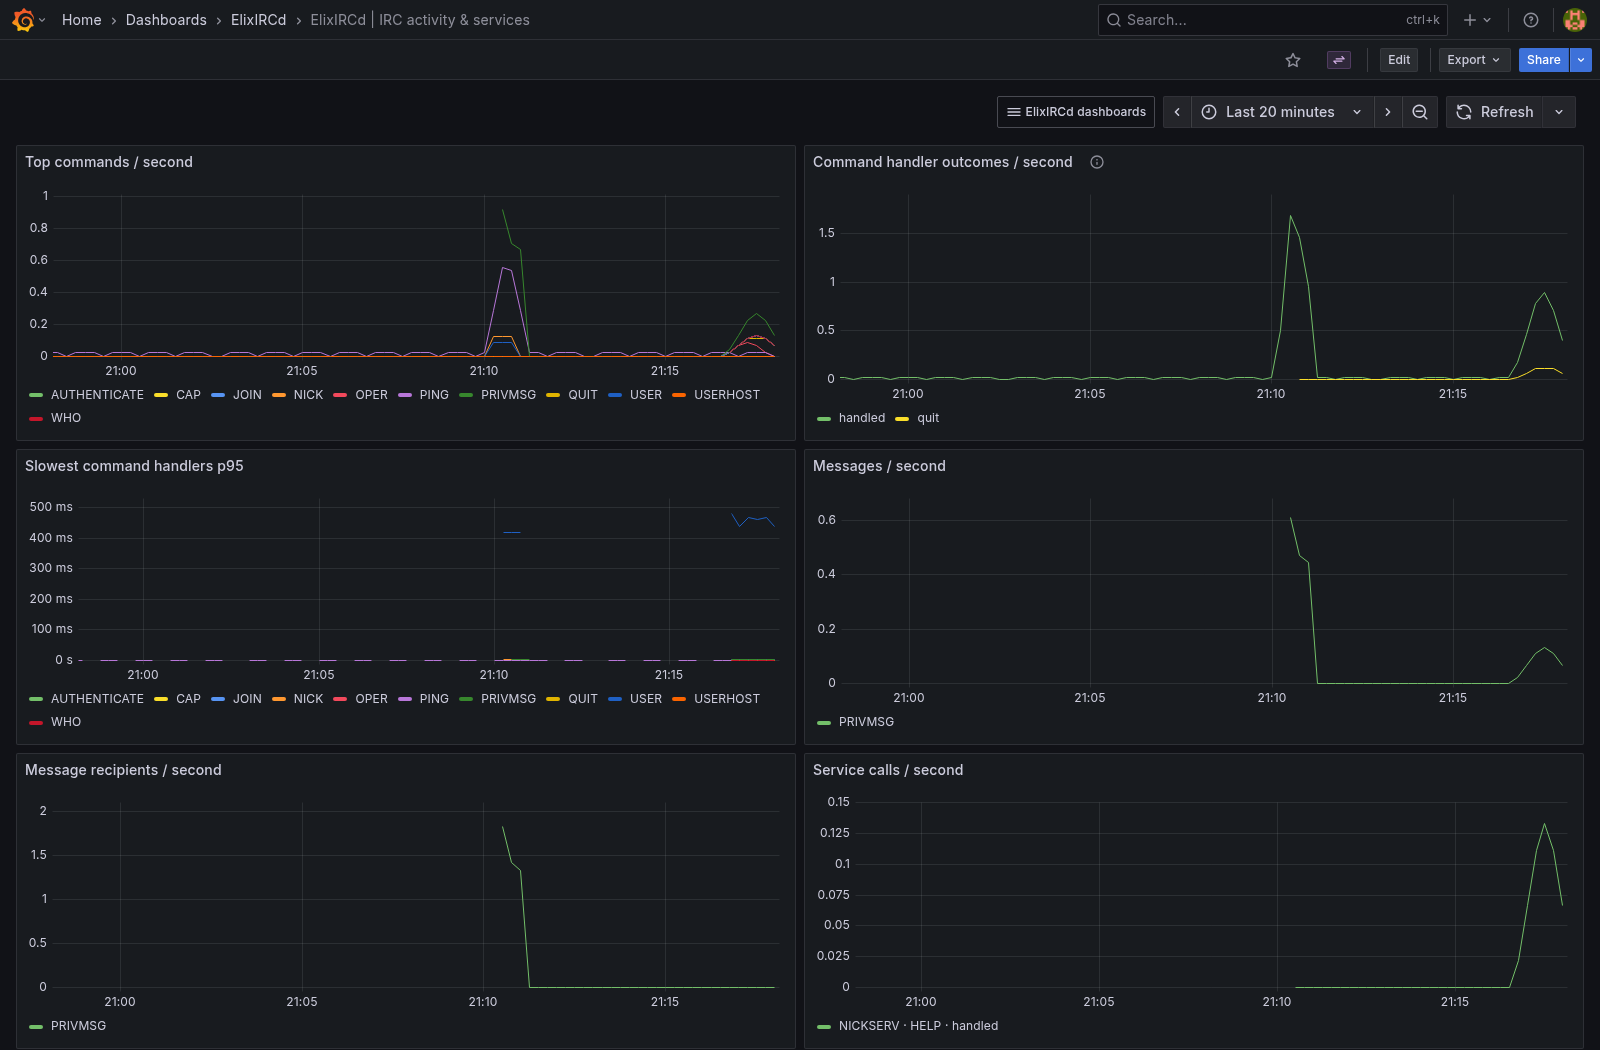
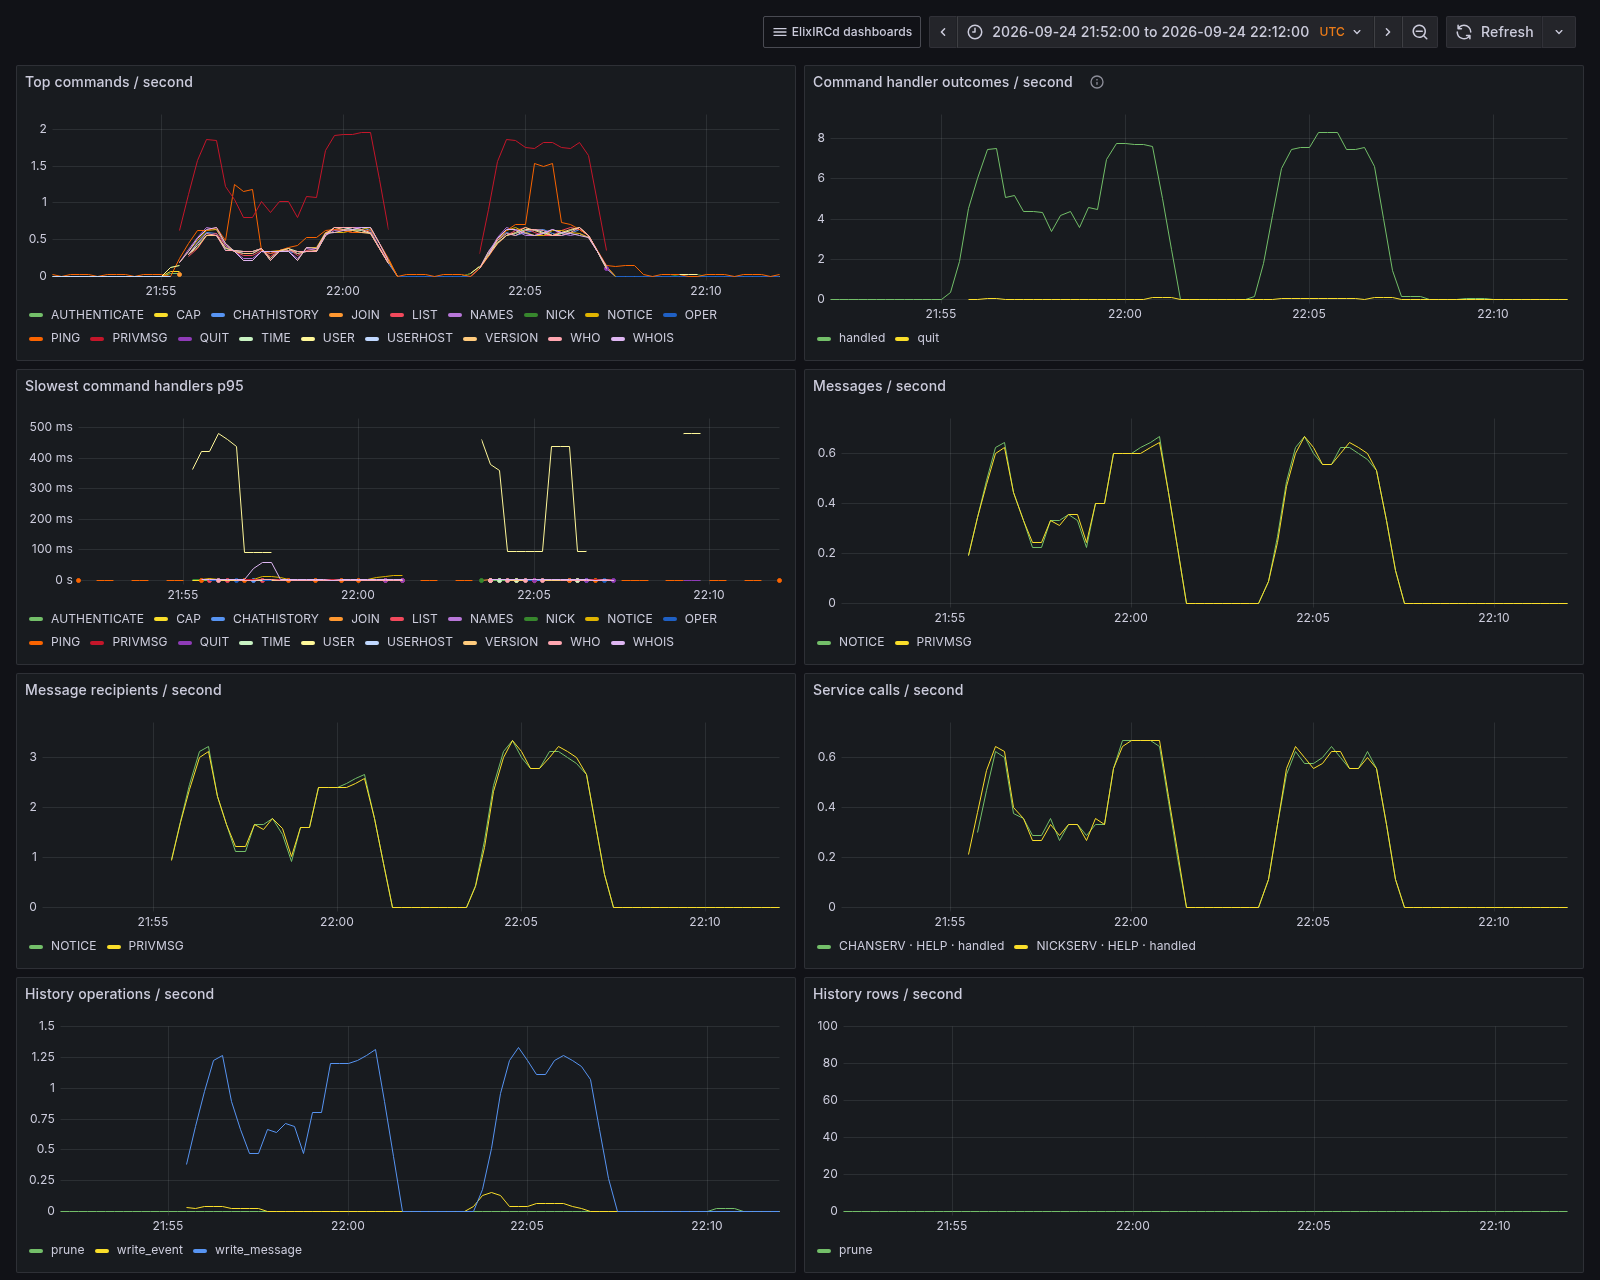
Expand self-hosted monitoring without tracing

diff --git a/observability/README.md b/observability/README.md
@@ -13,17 +13,17 @@ export GRAFANA_ADMIN_PASSWORD='choose-a-long-unique-password'
 docker compose -f observability/compose.yaml up -d
 ```
 
-Open <http://127.0.0.1:3000> and sign in as `admin` with the password above. The `ElixIRCd` folder contains nine English dashboards: Overview, Connections & transport, IRC activity & services, Security & authentication, Runtime, Storage & database, Jobs, Email, and Event logs. The dashboard navigation menu preserves the selected time range. Prometheus scrapes the private `elixircd:9568/metrics` address. Loki receives JSON container logs via Alloy. `docker compose -f observability/compose.yaml ps` shows container state; `docker compose -f observability/compose.yaml logs elixircd alloy` helps diagnose startup.
+Open <http://127.0.0.1:3000> and sign in as `admin` with the password above. The `ElixIRCd` folder contains ten English dashboards: Overview, Connections & transport, IRC activity & services, Security & authentication, Runtime, Storage & database, Jobs, Email, Event logs, and Monitoring & alerts. The dashboard navigation menu preserves the selected time range. Prometheus scrapes the private `elixircd:9568/metrics` address and the internal health metrics of Loki, Alloy, and Grafana. Loki receives JSON container logs via Alloy. `docker compose -f observability/compose.yaml ps` shows container state; `docker compose -f observability/compose.yaml logs elixircd alloy` helps diagnose startup.
 
 The Event logs dashboard has an **Event family** dropdown and an **Event suffix regex** input. Use the default `.*` suffix to see all names in a family, or enter `failed|crashed` to narrow the selected family. The top event types, severity trend, per-type trend, and selected log stream follow these filters; the family trend and "Other runtime logs" remain unfiltered for context. Families use the stable prefix of `metadata.event`: `audit.*`, `authentication.*`, `connection.*`/`protocol.*`, `job.*`/`email.*`, `account.*`/`channel.*`/`service.*`, and `observability.*`. Click a log line for its JSON fields, including bounded `job_type`, `result`, and `connection_id` when available. For ad hoc investigation, use Grafana Explore with the Loki query `{service="elixircd"} | json`; for example, append `| metadata_event=~"^job[.].+"` to select job events. Job lifecycle logs include enqueue, start, completion, retry, failure, cancellation, and recovery. Event names are parsed at query time rather than indexed as Loki labels.
 
 ## Dashboard screenshots
 
-These captures come from the local Docker stack during synthetic IRC traffic with multiple clients over TCP, TLS, WebSocket, and secure WebSocket, plus local email jobs sent through the test adapter. They show measured traffic, storage activity, jobs, audit events, and controlled rejects; they are examples rather than production measurements. Dashboard log panels display the message text, while the structured JSON fields remain available in each log entry's details. Live values and panels with no matching events will vary.
+These captures come from local synthetic QA runs, not production. The Overview, Activity, and Storage examples use a busy 2026-09-24 interval with IRC commands, messages, services, history, and database activity; the other captures use separate QA intervals. Dashboard log panels show message text, with structured JSON fields available in each entry's details. Live values and panels with no matching events will vary.
 
 ### Overview
 
-Health, traffic, memory, and recent logs in one view.
+Health, active alerts, traffic, memory, and recent logs in one view.
 
 ![Overview dashboard with health cards, traffic charts, memory, and recent logs](screenshots/overview.png)
 
@@ -35,9 +35,11 @@ Connection acceptance and rejection, disconnects, handshakes, and transport-spec
 
 ### IRC activity and services
 
-Command rates and latency, message delivery, and NickServ/ChanServ calls.
+Command rates and latency, a complete command/outcome table since restart, message delivery, and NickServ/ChanServ calls.
 
 ![IRC activity dashboard with command, message, recipient, and service charts](screenshots/activity.png)
+
+![Complete command counts by outcome since restart](screenshots/activity-breakdown.png)
 
 ### Security and authentication
 
@@ -53,9 +55,11 @@ Metrics availability, IRC readiness, sample freshness, and BEAM resource trends.
 
 ### Storage and database
 
-Data volume capacity and usage, Mnesia table sizes, and transaction throughput and latency.
+Data volume capacity and usage, largest and complete Mnesia table views, and transaction throughput and latency.
 
 ![Storage dashboard with data volume and Mnesia charts](screenshots/storage.png)
+
+![Complete Mnesia table row counts](screenshots/storage-breakdown.png)
 
 ### Jobs
 
@@ -77,6 +81,12 @@ Event type counts and severity over time, with filters for structured event fami
 
 ![Related email job lifecycle entries in the Email dashboard](screenshots/job-log-lines.png)
 
+### Monitoring and alerts
+
+Prometheus rule state, scrape target health, Loki log intake, and selected Grafana and Loki API errors. The dashboard displays alerts but does not send notifications.
+
+![Monitoring and alerts dashboard with five healthy scrape targets and log intake](screenshots/monitoring.png)
+
 This Compose file owns the usual IRC ports (6667, 6697, 8080, 8443) and Grafana's loopback port 3000. Adjust host port mappings if occupied. Add your IRC configuration or TLS certificates by mounting them into `/app/config/elixircd.exs` and `/app/data/cert` as described in the root README. Preserve the `elixircd-data` volume. A fresh volume starts with a fresh Mnesia schema; existing deployments must use their own compatible data volume and backup before changing versions.
 
 ## Endpoints and data
@@ -93,8 +103,8 @@ Production logs use JSON. Normal connection logs use a random, per-connection ID
 
 ## Retention, access, and alerts
 
-Prometheus retains metrics for 15 days. Loki retains logs for 7 days. Docker rotates the IRC server's container log at five 10 MB files. Named volumes persist on `docker compose down`; `docker compose down -v` deletes monitoring and IRC data. Back up the volumes if the history matters. The stack does not configure an Alertmanager notification destination: alert rules show in Prometheus/Grafana, and you can add a receiver for paging. Included alerts cover down/unready, stale samples, low disk space, old queued jobs, and failed jobs.
+Prometheus retains metrics for 15 days. Loki retains logs for 7 days. Docker rotates the IRC server's container log at five 10 MB files. Named volumes persist on `docker compose down`; `docker compose down -v` deletes monitoring and IRC data. Back up the volumes if the history matters. The stack does not configure an Alertmanager notification destination: alert rules show in Prometheus/Grafana, and you can add a receiver for paging. Included alerts cover down/unready, stale samples, low disk space, old queued jobs, failed jobs, and monitoring component outages. Prometheus cannot evaluate rules while it is down, so monitor its availability separately if paging is required.
 
-Grafana is bound to the host loopback and requires `GRAFANA_ADMIN_PASSWORD`. For remote access, put an authenticated HTTPS reverse proxy in front of it or use a private tunnel. The Alloy container mounts the Docker socket read-only to discover the ElixIRCd container, but Docker socket access is privileged even with a read-only mount. Run this stack only on a host you trust or replace Docker discovery with another log collector. Prometheus and Loki are internal to the Compose network and have no host ports.
+Grafana is bound to the host loopback and requires `GRAFANA_ADMIN_PASSWORD`. For remote access, put an authenticated HTTPS reverse proxy in front of it or use a private tunnel. The Alloy container mounts the Docker socket read-only to discover the ElixIRCd container, but Docker socket access is privileged even with a read-only mount. Run this stack only on a host you trust or replace Docker discovery with another log collector. Prometheus, Loki, and Alloy's metrics endpoint are internal to the Compose network and have no host ports.
 
 To inspect metrics without the full stack, run the image with a private Docker network and scrape port 9568 from another container on that network. The production image exposes the same endpoints when observability is enabled. Neither the image nor this Compose example ties Docker container health to the optional management HTTP endpoint; the Runtime dashboard and Prometheus alerts report metrics availability and IRC readiness separately.

diff --git a/README.md b/README.md
@@ -197,9 +197,9 @@ Observability is enabled by default and exposes liveness, readiness, and Prometh
 
 The image and optional Compose stack do not tie Docker container health to the metrics endpoint. The [monitoring stack](observability/README.md) runs Prometheus, Grafana, Loki, and Alloy alongside the IRC server. It includes dashboards, alerts, structured logs, and persistent monitoring data. The monitoring endpoint is bound to the container's private interface when this stack is used; it is never published as a host port.
 
-The screenshot below shows the local Grafana overview during a synthetic multi-client IRC workload. See the [observability dashboard gallery](observability/README.md#dashboard-screenshots) for the detailed views.
+The screenshot below shows the local Grafana overview with active alerts and synthetic IRC traffic. See the [observability dashboard gallery](observability/README.md#dashboard-screenshots) for the detailed views.
 
-![Grafana overview showing server readiness, connection and command rates, memory, and recent logs](observability/screenshots/overview.png)
+![Grafana overview showing server readiness, active alerts, connection and command rates, memory, and recent logs](observability/screenshots/overview.png)
 
 For configuration, dashboards, logs, alerts, and access details, see the [observability README](observability/README.md).
 
